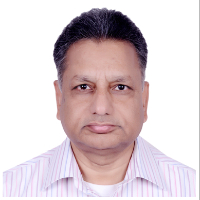
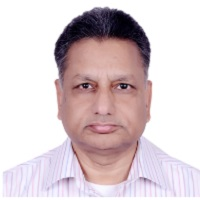
made it horizontal

diff --git a/index.html b/index.html
@@ -117,7 +117,7 @@ setInterval(function() {
 			</div>
 			<div class="col-lg-12 text-justify">
 					<p>
-						The International Conference on Emerging Computation Intelligence (ICECI 2022) will be held at Aligarh Muslim University, Aligarh, Uttar Pradesh, India, organized by the Department of Computer Science, on December 17-18, 2022. This conference is intended for researchers around the globe interested in the areas(not limited to) of Optimization, Artificial Intelligence, Computational Intelligence, Machine Learning, Evolutionary Computation, Fuzzy Logic, Signal Processing Theory and its methods, Blockchain, Cloud Computing, Fog Computing, the Internet of Things, Wireless Sensor Networks, various disorders and diseases, etc. The applications of Machine Learning and Computational Intelligence techniques in other domains are also welcome.
+						The International Conference on Emerging Computation Intelligence (ICECI 2022) will be held at Aligarh Muslim University, Aligarh, Uttar Pradesh, India, organized by the Department of Computer Science, on December 17-18, 2022. This conference is intended for researchers around the globe interested in the areas(not limited to) of Optimization, Artificial Intelligence, Computational Intelligence, Machine Learning, Evolutionary Computation,Cyber Security, Fuzzy Logic, Signal Processing Theory and its methods, Blockchain, Cloud Computing, Fog Computing, the Internet of Things, Wireless Sensor Networks, various disorders and diseases, etc. The applications of Machine Learning and Computational Intelligence techniques in other domains are also welcome.
 					</p>
 			</div>
 		</div>
@@ -568,7 +568,7 @@ setInterval(function() {
                   </div>
                </div>
                <br><br>
-               <div class="container">
+               <!-- <div class="container">
                   <div class="row text-center text-md-left">
                      <div class="col-md-3 offset-md-1 col-lg-4 col-sm-12 col-xl-3">
                         <p class="side-title"> Honorary Chairs </p>
@@ -618,7 +618,7 @@ setInterval(function() {
 						 </div>
 						 <div class="col-md-6 mt-1 text-md-left text-sm-center">
 							<h5>Prof. Qamrul Hasan Ansari</h5>
-							<div class="mt-1 mb-1 spec-1"><span>Dept. of Mathematics</span></div>
+							<div class="mt-1 mb-1 spec-1"><span>Department of Mathematics</span></div>
 							<div class="mt-1 mb-1 spec-1"><span>Aligarh Muslim University, Aligarh </span></p></div>
 						 </div>
 					  </div>
@@ -657,15 +657,77 @@ setInterval(function() {
                            </div>
                            <div class="col-md-6 mt-1 text-md-left text-sm-center">
                               <h5>Prof. Nesar Ahmad</h5>
-                              <div class="mt-1 mb-1 spec-1"><span>Dept. of Computer Engineering</span></div>
+                              <div class="mt-1 mb-1 spec-1"><span>Department of Computer Engineering</span></div>
                               <div class="mt-1 mb-1 spec-1"><span>Aligarh Muslim University, Aligarh </span></p></div>
                            </div>
                         </div>
                      </div>
                   </div>
-               </div>
-               
-			            
+               </div> -->
+               <!--
+				Card
+			   -->
+			   <h3 class="text-center"> Honorary Chairs </h3>
+			   <div class="container">
+				<div class="card-group">
+		
+					<!--bootstrap card with 3 horizontal images-->
+					<div class="row">
+						<div class="card col-md-3 offset-md-1  mt-2">
+							<img class="card-img-top mt-2" src=
+		"images/persons/akSaini.jpg">
+		
+							<div class="card-body">
+								<h5 class="card-title">Prof. A.K. Saini</h5>
+								<p class="card-text">Professor and Dean, University School of Management Studies, New Delhi</p>
+							</div>
+						</div>
+		
+						<div class="card col-md-3 offset-md-1  mt-2">
+							<img class="card-img-top mt-2" src=
+		"images/persons/kk_Aggarwal.jpg">
+							
+							<div class="card-body">
+								<h5 class="card-title">Prof. K.K. Aggarwal</h5>
+								<p class="card-text">Chairman, National Board of Accreditation</p>
+							</div>
+						</div>
+						
+						<div class="card col-md-3 offset-md-1  mt-2">
+							<img class="card-img-top mt-2" src=
+		"images/persons/qhAnsari.jpg">
+							
+							<div class="card-body">
+								<h5 class="card-title">Prof. Qamrul Hasan Ansari</h5>
+								<p class="card-text">Dept. of Mathematics, Aligarh Muslim University, Aligarh</p>
+							</div>
+						</div>
+		
+				<div class="card col-md-3 offset-md-1  mt-2">
+							<img class="card-img-top mt-2" src=
+		"images/persons/nesarAhmad.jpg">
+							
+							<div class="card-body">
+								<h5 class="card-title">Prof. Nesar Ahmad</h5>
+								<p class="card-text">Department of Computer Engineering, Aligarh Muslim University, Aligarh</p>
+							</div>
+						</div>
+		
+				<div class="card col-md-3 offset-md-1  mt-2">
+							<img class="card-img-top mt-2" src=
+		"images/persons/vidyarthi_1_0.jpg">
+							
+							<div class="card-body">
+								<h5 class="card-title">Prof. Deo Prakash Vidyarthi</h5>
+								<p class="card-text">Professor, School of Computer and Systems Sciences, Jawaharlal Nehru University, New Delhi</p>
+							</div>
+						</div>
+					</div>
+				</div>
+			</div>
+			  <!--
+				Card
+			   -->    
                <br><br>
                <div class="container">
                   <div class="row text-center text-md-left">
@@ -919,7 +981,22 @@ setInterval(function() {
 			   </div>
 			</div>
 		 </div>
-			 
+		 <div class="container">
+			<div class="row text-center text-md-left">
+			   <div class="col-md-3 offset-md-1 col-lg-4 col-sm-12 col-xl-3">
+				  <p class="side-title"></p>
+			   </div>
+			   <div class="col-md-8 col-lg-8 col-sm-12 col-xl-7">
+				  <div class="row p-2 bg-white border rounded mt-2">
+					 <div class="col-md-6 mt-1 text-md-left text-sm-center">
+						<h5>Dr. Asad Malik</h5>
+						<div class="mt-1 mb-1 spec-1"><span>Department of Computer Science</span></div>
+						<div class="mt-1 mb-1 spec-1"><span>Aligarh Muslim University, Aligarh </span> </p></div>
+					 </div>
+				  </div>
+			   </div>
+			</div>
+		 </div>
                
                <br><br>
                <div class="container">
@@ -1124,6 +1201,22 @@ setInterval(function() {
 				   <div class="col-md-8 col-lg-8 col-sm-12 col-xl-7">
 					  <div class="row p-2 bg-white border rounded mt-2">
 						 <div class="col-md-6 mt-1 text-md-left text-sm-center">
+							<h5>Dr. Asad Malik</h5>
+							<div class="mt-1 mb-1 spec-1"><span>Department of Computer Science</span></div>
+							<div class="mt-1 mb-1 spec-1"><span>Aligarh Muslim University, Aligarh </span> </p></div>
+						 </div>
+					  </div>
+				   </div>
+				</div>
+			 </div>
+			   <div class="container">
+				<div class="row text-center text-md-left">
+				   <div class="col-md-3 offset-md-1 col-lg-4 col-sm-12 col-xl-3">
+					  <p class="side-title"></p>
+				   </div>
+				   <div class="col-md-8 col-lg-8 col-sm-12 col-xl-7">
+					  <div class="row p-2 bg-white border rounded mt-2">
+						 <div class="col-md-6 mt-1 text-md-left text-sm-center">
 							<h5>Mr. Basil Hanafi</h5>
 							<div class="mt-1 mb-1 spec-1"><span>Department of Computer Science</span></div>
 							<div class="mt-1 mb-1 spec-1"><span>Aligarh Muslim University, Aligarh </span> </p></div>
@@ -1239,39 +1332,45 @@ setInterval(function() {
 					<div class="col">
 						<div class="mx-auto p-3">
 							<ul class="list-group text-md-left text-sm-center">
-								<li class="list-group-item">Dr. Haider Khalaf Jabbar Allamy,Information Technology College, Iraq</li>
-<li class="list-group-item">Prof. George Halikias, University of Athens, Athens, Greece</li>
-<li class="list-group-item">Prof. Girija Chetty, University of Canberra, Australia </li>
+								<li class="list-group-item">Dr. Haider Khalaf Jabbar Allamy, Information Technology College, Iraq</li>
+<li class="list-group-item">Prof. George Halikias, University of Athens, Greece</li>
+<li class="list-group-item">Prof. Girija Chetty, University of Canberra, Australia</li>
 <li class="list-group-item">Prof. Syed Hamid Hasan, King Abdulaziz University, Kingdom of Saudi Arabia</li>
 <li class="list-group-item">Dr. Nur Izura Binti Udzir, University of Putra Malaysia, Malaysia</li>
 <li class="list-group-item">Dr. Hatem S. A. Hamatta, Aqaba University College, Jordan</li>
 <li class="list-group-item">Prof. Rasha M. Al-Tarawneh, Al-Balqa Applied University, Jordan</li>
 <li class="list-group-item">Dr. Usman Ali Khan, King Abdul Aziz University, Saudi Arabia</li>
 <li class="list-group-item">Dr. Nabeel I. Zanoon, Donetsk National Technical University, Ukraine</li>
-<li class="list-group-item">Professor Eran A. Edirisinghe, Loughborough University, United Kingdom </li>
-<li class="list-group-item">Professor Qinggang Meng, Loughborough University, United Kingdom</li>
-<li class="list-group-item">Dr. Mohammad Shahid Jamil, Qatar  University, Qatar</li>
-<li class="list-group-item">Professor Ihsan Lami, Buckingham University, United Kingdom</li>
+<li class="list-group-item">Prof. Eran A. Edirisinghe, Loughborough University, United Kingdom</li>
+<li class="list-group-item">Prof. Qinggang Meng, Loughborough University, United Kingdom</li>
+<li class="list-group-item">Dr. Mohammad Shahid Jamil, Qatar University, Qatar</li>
+<li class="list-group-item">Prof. Ihsan Lami, Buckingham University, United Kingdom</li>
 <li class="list-group-item">Prof. Jemal Abawajy, Deakin University, Australia</li>
 <li class="list-group-item">Prof. Abdullah Saad Al-Malaise Al-Ghamdi, King Abdul Aziz University, Kingdom of Saudi Arabia</li>
-<li class="list-group-item">Dr Muhammad Rukunuddin Ghalib, De Montfort University, United Arab Emirates</li>
+<li class="list-group-item">Dr. Muhammad Rukunuddin Ghalib, De Montfort University, United Arab Emirates</li>
 <li class="list-group-item">Prof. Kamal M. Jambi, King Abdul Aziz University, Kingdom of Saudi Arabia</li>
-<li class="list-group-item">Prof. Akhtar Kalam, Victoria University, Melbourne, Australia</li>
+<li class="list-group-item">Prof. Akhtar Kalam, Victoria University, Melbourne</li>
 <li class="list-group-item">Dr. Masoud Mohammedian, University of Canberra, Australia</li>
 <li class="list-group-item">Prof. Jian Ping Li, University of Electronic Science and Technology of China, China</li>
 <li class="list-group-item">Prof. Chen Bo, University of Electronic Science and Technology of China, China</li>
 <li class="list-group-item">Prof. Afaq Ahmad, Sultan Qaboos University (SQU), Oman</li>
-<li class="list-group-item">Yanli Chen, Southwest Jiaotong University, China</li>
+<li class="list-group-item">Dr. Yanli Chen, Southwest Jiaotong University, China</li>
 <li class="list-group-item">Dr. Zahid Khan SMIEEE, Prince Sultan University, Saudi Arabia</li>
-<li class="list-group-item">Minoru Kuribayashi, Okayama University, Japan</li>
+<li class="list-group-item">Dr. Minoru Kuribayashi, Okayama University, Japan</li>
 <li class="list-group-item">Dr. Zaid Al-Huda, Southwest Jiaotong University, China</li>
-<li class="list-group-item">Zichi Wang, Shanghai University, China</li>
-<li class="list-group-item">Prof. Bassoma Diallo, Southwest Jiaotong University Chengdu,China</li>
+<li class="list-group-item">Dr. Zichi Wang, Shanghai University, China</li>
+<li class="list-group-item">Prof. Bassoma Diallo, Southwest Jiaotong University Chengdu, China</li>
 <li class="list-group-item">Dr. Mohd. Yamani Idna bin Idris, University of Malaya, Malaysia</li>
 <li class="list-group-item">Dr. Ranjit Rajak, Dr. Harisingh Gour University, India</li>
-<li class="list-group-item">Neetesh Kumar, Indian Institute of Technology, India</li>
-<li class="list-group-item">Shiv Ram Meena, Guru Gobind Singh Indraprastha University, India</li>
-							
+<li class="list-group-item">Dr. Neetesh Kumar, Indian Institute of Technology, India</li>
+<li class="list-group-item">Mr. Shiv Ram Meena, Guru Gobind Singh Indraprastha University, India</li>
+<li class="list-group-item">Prof. Vikas Rao Vadi, Don Bosco Institute of Technology, New Delhi, India</li>
+<li class="list-group-item">Prof. Umakanta Choudhury, Rajkumar Goel Institute of Technology , India</li>
+<li class="list-group-item">Prof. Ghanshyam Singh, JITS , Narsampet Warangal, Telengana, India</li>
+<li class="list-group-item">Dr. Mohd Izhar, Don Bosco Institute of Technology, New Delhi, India</li>
+<li class="list-group-item">Dr. Saurabh Gupta, ADGITM (GGSIPU), Delhi, India</li>
+<li class="list-group-item">Mr. Ankit Agarwal, ADGITM (GGSIPU), Delhi, India</li>
+<li class="list-group-item">Dr. Naveen Kumar, Indian Institute of Information Technology (IIIT), Vadodara, Gujarat, India</li>
 							</ul>
 						</div>
 					</div>
